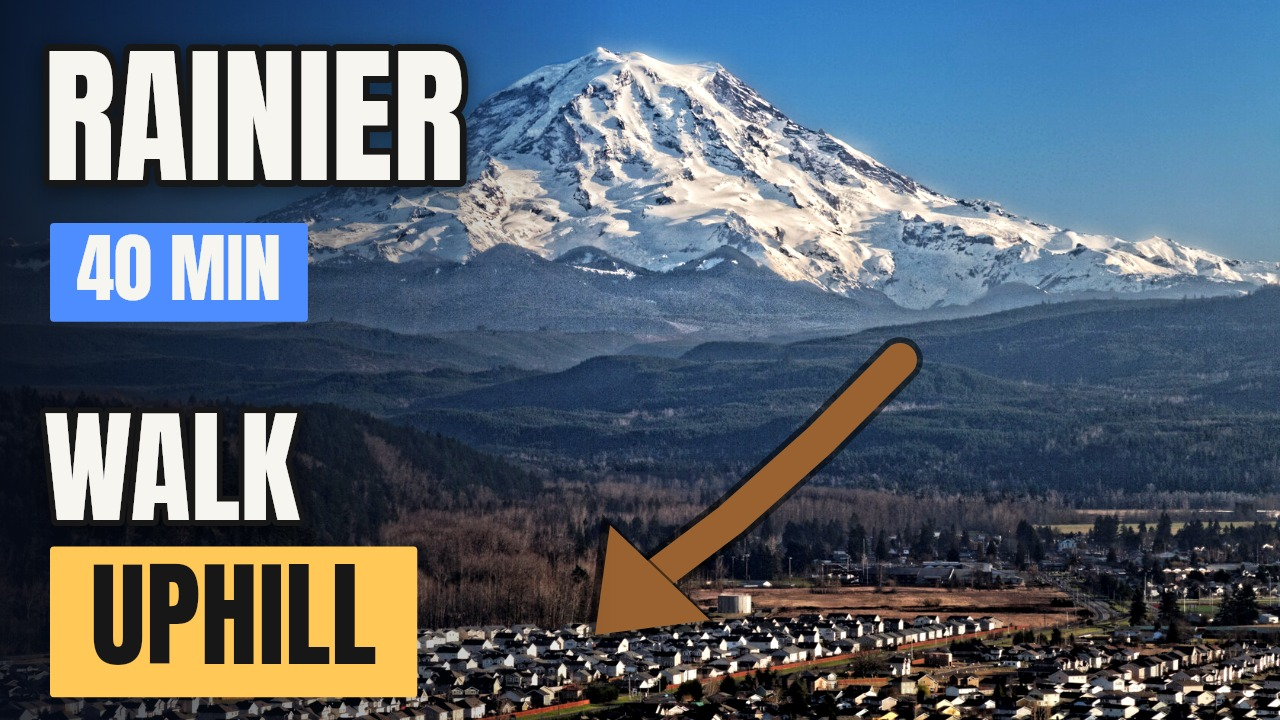
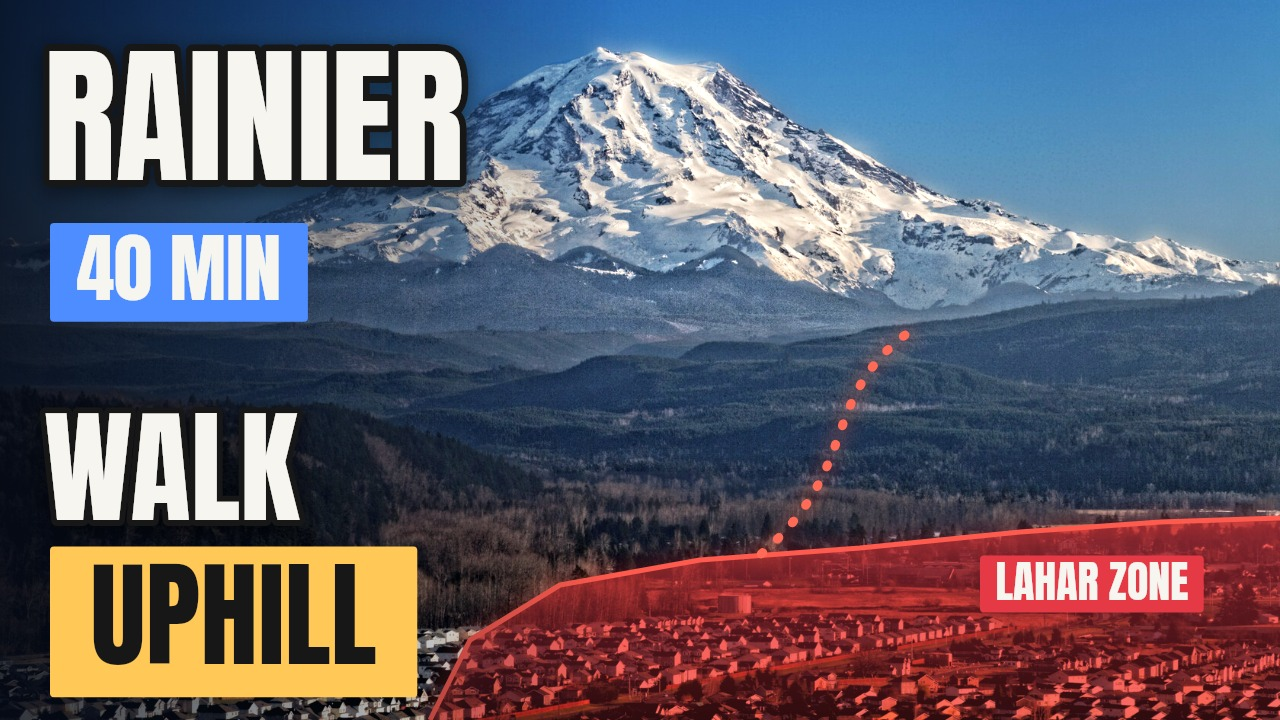
EP10 Rainier: thumbnails with lahar-zone overlay instead of arrow
Claude-Session: https://claude.ai/code/session_01RM84ZkH4GSp4TtDDAc4P7c

Changed region(s): [[0.3125, 0.4583, 1.0, 1.0]]

diff --git a/whyhow/ep10_rainier/cover.js b/whyhow/ep10_rainier/cover.js
@@ -10,13 +10,20 @@ async function base() {
   const s = 1.25, sw = W / s * (img.width / 1920) * 1.0;
   ctx.filter = 'saturate(1.25) contrast(1.12)';
   ctx.drawImage(img, 240, 110, 1680, 945, 0, 0, W, H); ctx.filter = 'none';
-  // mud arrow from the mountain foot down the valley into town
-  ctx.save(); ctx.lineCap = 'round'; ctx.lineJoin = 'round';
-  const pts = [[900, 360], [820, 440], [730, 520], [650, 580]];
-  for (const [lw, col] of [[46, 'rgba(0,0,0,0.55)'], [34, '#9A6230']]) { ctx.strokeStyle = col; ctx.lineWidth = lw; ctx.beginPath(); pts.forEach(([x, y], k) => k ? ctx.lineTo(x, y) : ctx.moveTo(x, y)); ctx.stroke(); }
-  const head = (col, g) => { ctx.fillStyle = col; ctx.beginPath(); ctx.moveTo(595 - g, 635 + g); ctx.lineTo(610 - g, 525 - g * 1.4); ctx.lineTo(710 + g * 1.4, 620 + g); ctx.closePath(); ctx.fill(); };
-  head('rgba(0,0,0,0.55)', 8); head('#9A6230', 0);
-  ctx.restore();
+  // lahar zone: the flat valley floor where the town stands, tinted red with a glowing edge
+  const Z = [[430, 720], [470, 640], [560, 585], [700, 560], [860, 548], [1020, 532], [1160, 522], [1280, 518], [1280, 720]];
+  const zpath = () => { ctx.beginPath(); Z.forEach(([x, y], k) => k ? ctx.lineTo(x, y) : ctx.moveTo(x, y)); ctx.closePath(); };
+  ctx.save(); zpath(); ctx.clip();
+  const zg = ctx.createLinearGradient(0, 520, 0, 720); zg.addColorStop(0, 'rgba(230,57,70,0.55)'); zg.addColorStop(1, 'rgba(230,57,70,0.2)');
+  ctx.globalCompositeOperation = 'multiply'; ctx.fillStyle = 'rgba(255,120,110,1)'; ctx.fillRect(0, 0, W, H);
+  ctx.globalCompositeOperation = 'source-over'; ctx.fillStyle = zg; ctx.fillRect(0, 0, W, H); ctx.restore();
+  ctx.save(); ctx.shadowColor = 'rgba(255,70,60,1)'; ctx.shadowBlur = 22; ctx.strokeStyle = '#FF5A4E'; ctx.lineWidth = 5; ctx.lineJoin = 'round';
+  ctx.beginPath(); Z.slice(0, -1).forEach(([x, y], k) => k ? ctx.lineTo(x, y) : ctx.moveTo(x, y)); ctx.stroke(); ctx.restore();
+  // the path the mud takes: a glowing dashed line from the mountain down the valley
+  ctx.save(); ctx.lineCap = 'round'; ctx.shadowColor = 'rgba(255,90,60,1)'; ctx.shadowBlur = 18;
+  ctx.strokeStyle = '#FF6B57'; ctx.lineWidth = 9; ctx.setLineDash([2, 20]);
+  ctx.beginPath(); ctx.moveTo(905, 335); ctx.bezierCurveTo(820, 400, 860, 470, 760, 555); ctx.stroke(); ctx.restore();
+  ctx.save(); ctx.translate(980, 600); chip(ctx, 'LAHAR ZONE', 0, 0, { size: 44, bg: C.red, color: C.cream }); ctx.restore();
   const sh = ctx.createLinearGradient(0, 0, 620, 0); sh.addColorStop(0, 'rgba(6,12,24,0.85)'); sh.addColorStop(1, 'rgba(6,12,24,0)'); ctx.fillStyle = sh; ctx.fillRect(0, 0, 680, H);
   return [cv, ctx];
 }

diff --git a/whyhow/ep10_rainier/upload_kit.md b/whyhow/ep10_rainier/upload_kit.md
@@ -2,7 +2,7 @@
 
 **File:** `rainier_town_outrunning_volcano.mp4` (1920×1080, 30 fps, ~8:18, −14 LUFS).
 **Mid-roll ads:** the video is over 8 minutes, so mid-rolls are allowed. Place them on chapter breaks: about 3:51 and 6:24.
-**Thumbnail:** `rainier_cover_A.jpg` (main, "WALK UPHILL") and `rainier_cover_B.jpg` ("RIVER OF MUD"), 1280×720, real USGS photo (public domain) of Rainier over the Orting area + our mud arrow. Run A vs B in YouTube "Test & compare". The AI prompts below are a spare option.
+**Thumbnail:** `rainier_cover_A.jpg` (main, "WALK UPHILL") and `rainier_cover_B.jpg` ("RIVER OF MUD"), 1280×720, real USGS photo (public domain) of Rainier over the Orting area + our red "lahar zone" overlay and dotted mud path. Run A vs B in YouTube "Test & compare". The AI prompts below are a spare option.
 **Subtitles:** `rainier_subtitles_en.srt` (English).
 **Altered or synthetic content:** synthetic (AI) narrator voice that does not imitate a real person: "No" is allowed, "Yes" is also safe. Footage and photos are real (USGS, National Park Service, NASA, Wikimedia Commons, Pixabay). Clips of lahars flowing over maps are USGS D-Claw computer models and are labelled "USGS COMPUTER MODEL, NOT REAL FOOTAGE" on screen. The lahar clock map and tree-ring diagram are our own animation.
 **Playlist:** How Cities Really Work
